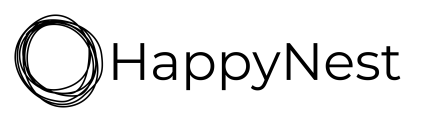
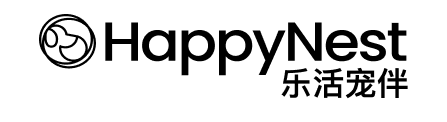
0421
logo change
btn primary color change

Changed region(s): [[0.0291, 0.0984, 0.9306, 0.8852]]

diff --git a/assets/mobirise/css/mbr-additional.css b/assets/mobirise/css/mbr-additional.css
@@ -96,7 +96,7 @@ body {
   border-radius: 4px;
 }
 .bg-primary {
-  background-color: #2299aa !important;
+  background-color: #0497AF !important;
 }
 .bg-success {
   background-color: #40b0bf !important;
@@ -112,8 +112,8 @@ body {
 }
 .btn-primary,
 .btn-primary:active {
-  background-color: #2299aa !important;
-  border-color: #2299aa !important;
+  background-color: #0497AF !important;
+  border-color: #0497AF !important;
   color: #ffffff !important;
   box-shadow: 0 2px 2px 0 rgba(0, 0, 0, 0.2);
 }
@@ -122,15 +122,15 @@ body {
 .btn-primary.focus,
 .btn-primary.active {
   color: #ffffff !important;
-  background-color: #145862 !important;
-  border-color: #145862 !important;
+  background-color: #02434c !important;
+  border-color: #02434c !important;
   box-shadow: 0 2px 5px 0 rgba(0, 0, 0, 0.2);
 }
 .btn-primary.disabled,
 .btn-primary:disabled {
   color: #ffffff !important;
-  background-color: #145862 !important;
-  border-color: #145862 !important;
+  background-color: #02434c !important;
+  border-color: #02434c !important;
 }
 .btn-secondary,
 .btn-secondary:active {
